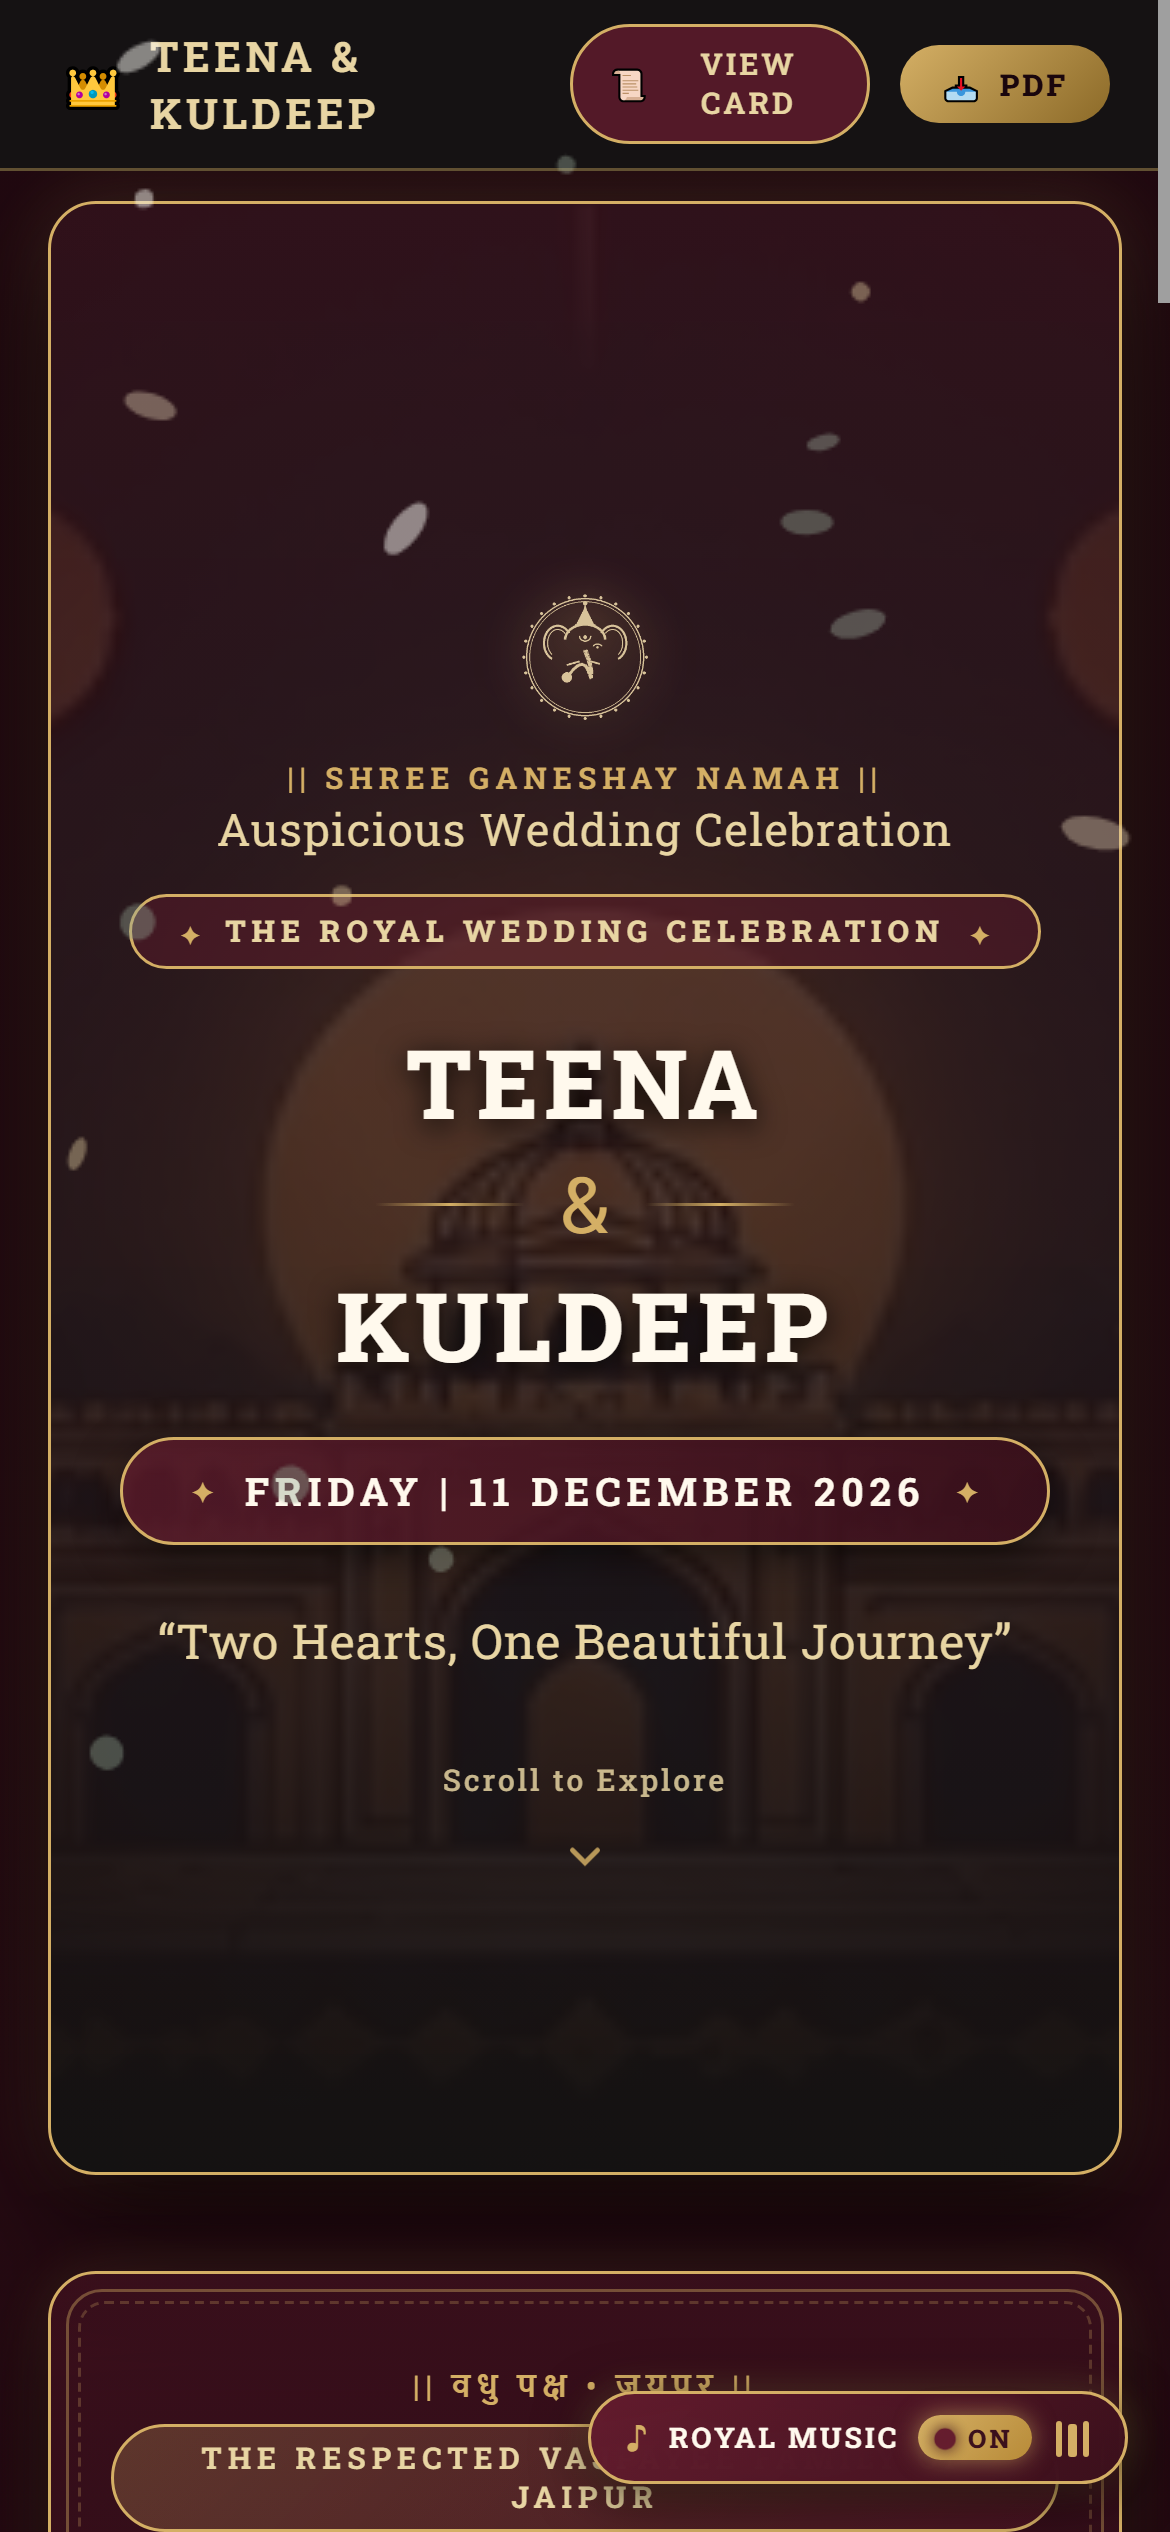
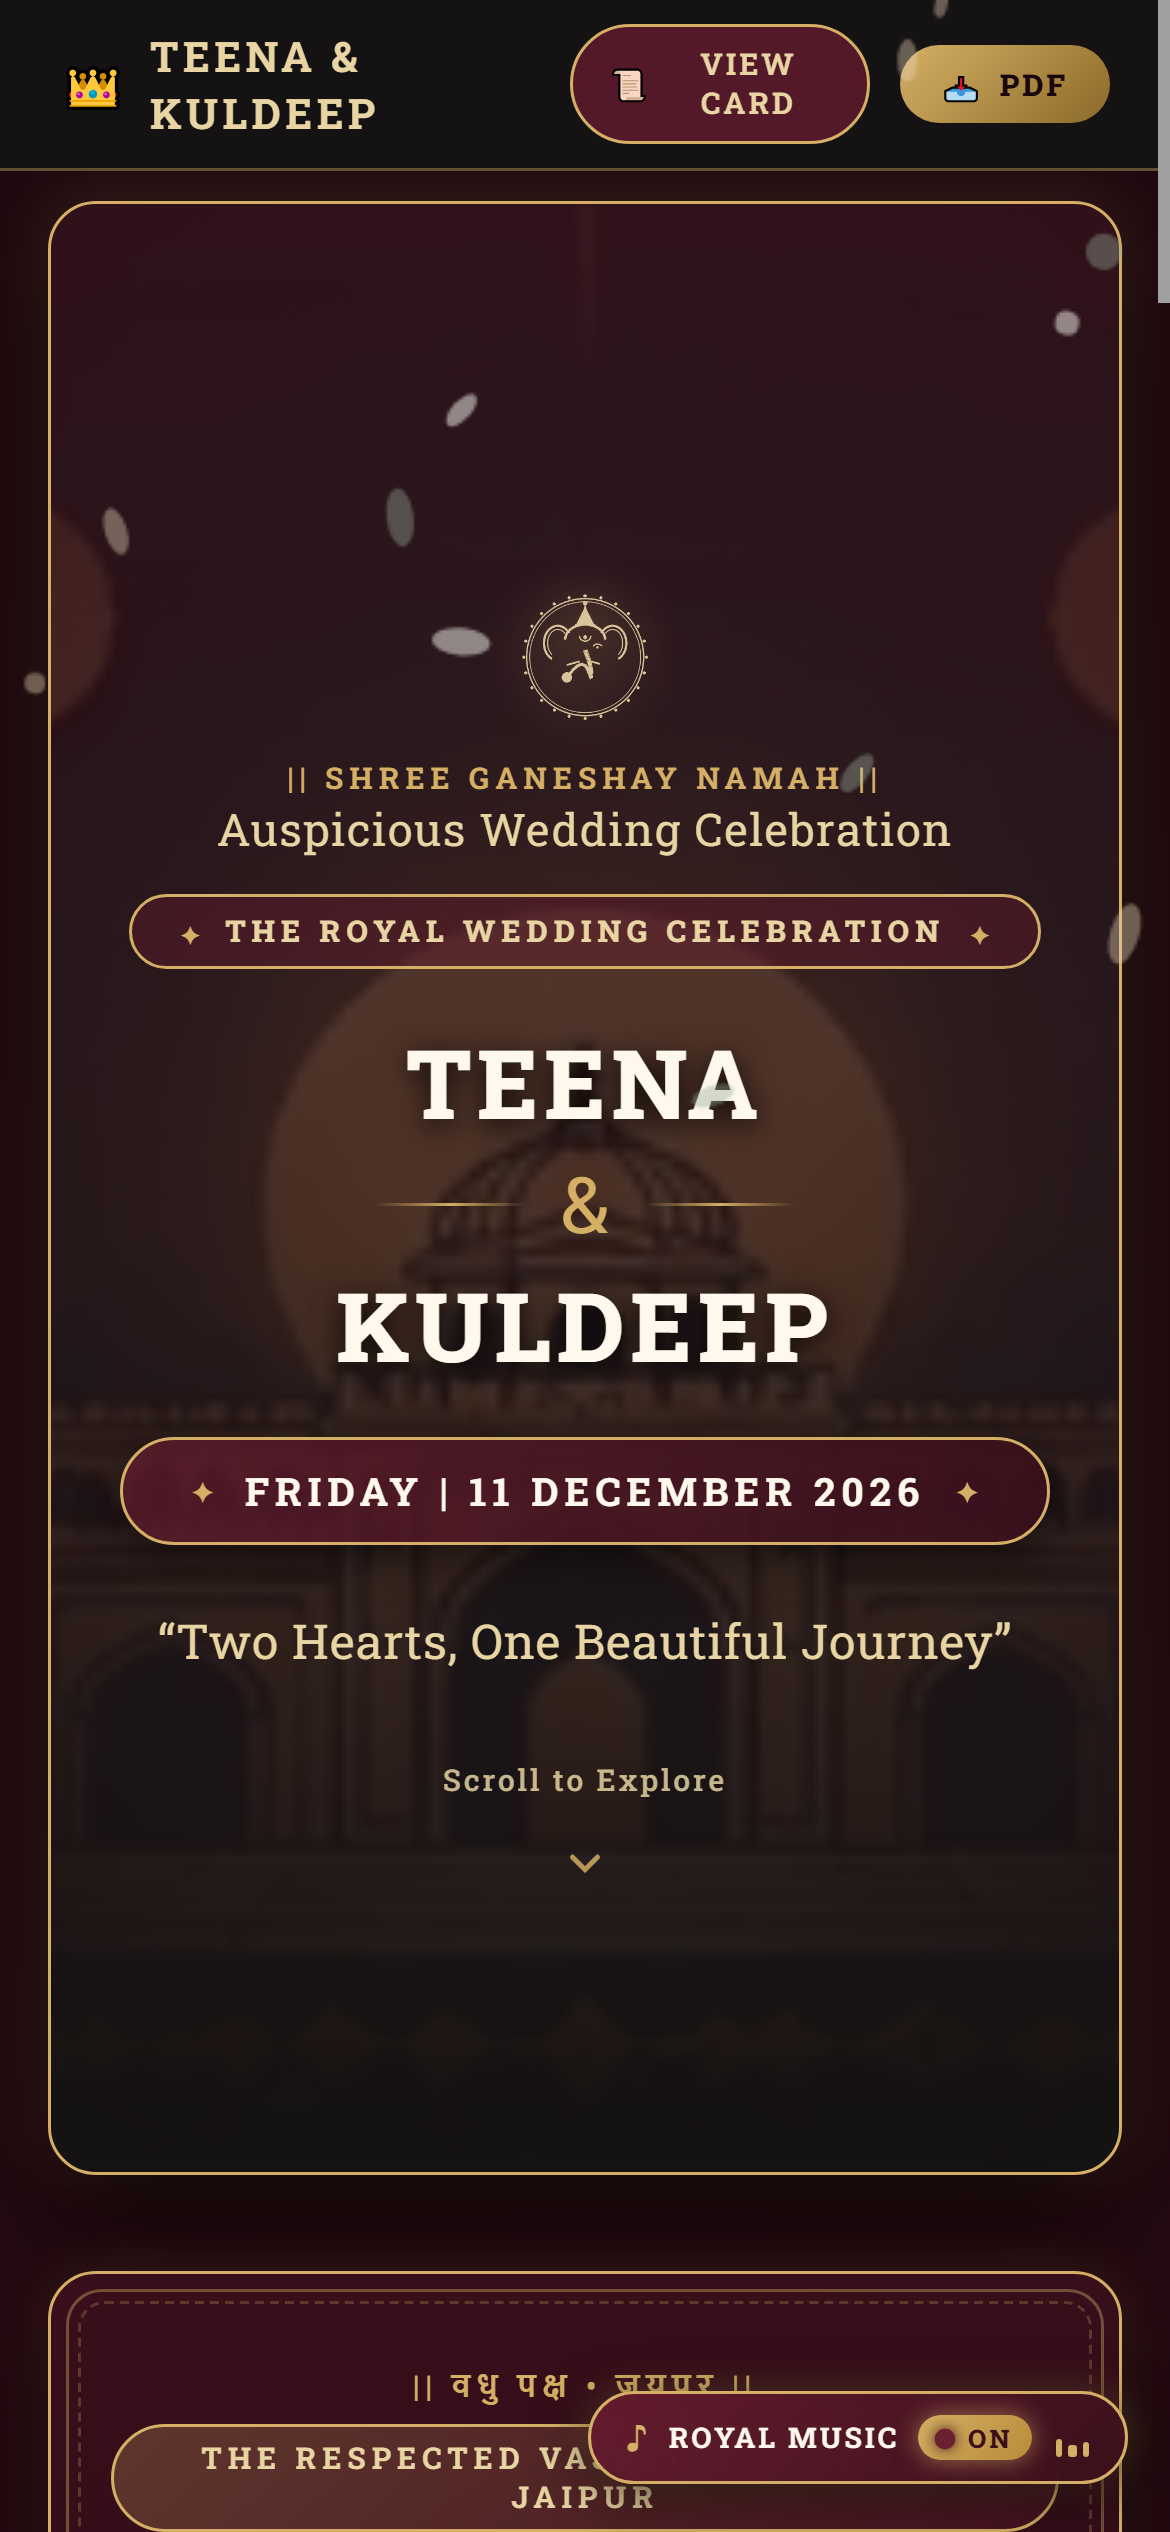
fix(css): add safe-area insets for floating music pill on mobile devices

diff --git a/royal_invitation_2026.css b/royal_invitation_2026.css
@@ -2232,8 +2232,8 @@ button, a, input, textarea, select {
 
 .royal-music-aside {
   position: fixed;
-  bottom: 24px;
-  right: 24px;
+  bottom: max(24px, env(safe-area-inset-bottom, 24px));
+  right: max(24px, env(safe-area-inset-right, 24px));
   z-index: 9999;
   pointer-events: auto;
 }
@@ -2355,8 +2355,8 @@ button, a, input, textarea, select {
 
 @media (max-width: 600px) {
   .royal-music-aside {
-    bottom: 16px;
-    right: 14px;
+    bottom: max(16px, env(safe-area-inset-bottom, 16px));
+    right: max(14px, env(safe-area-inset-right, 14px));
   }
   .royal-music-pill-btn {
     padding: 7px 12px;
